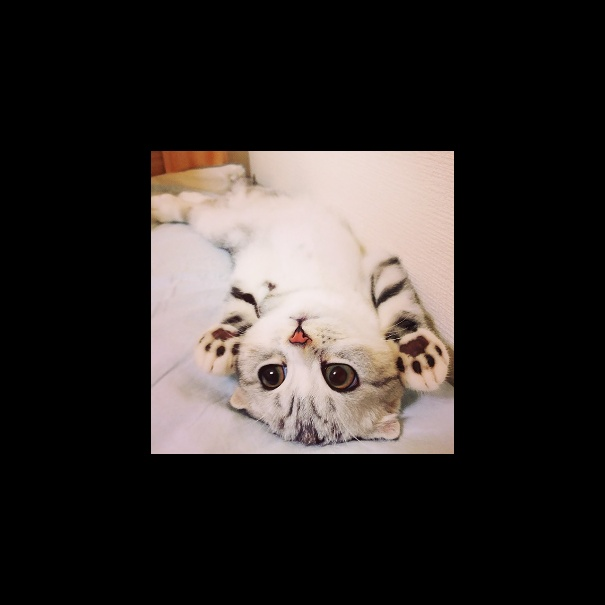
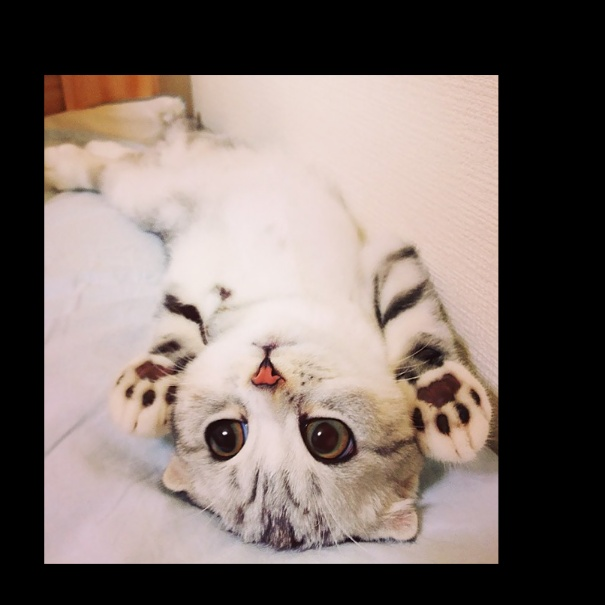
update

diff --git a/index.html b/index.html
@@ -2145,7 +2145,128 @@ A huge list of many types of data augmentations techniques used for deep learnin
 
 <h2>Spatial-level transforms</h2>
 
-<h3>Arithmetic</h3>
+<h3>Crop</h3>
+<ul class="augmentations">
+    <!----------------------------------------------------------------------------------------------------------------->
+    <!-- Crop -->
+    <!----------------------------------------------------------------------------------------------------------------->
+    <li class="item_list">
+        <button onclick="show('aug_crop')">Crop</button>
+        <div id="aug_crop" style="display: none;">
+            Crop region from image.
+            Source: <a target="_blank" 
+                       href="https://albumentations.ai/docs/api_reference/augmentations/transforms/#albumentations.augmentations.transforms.Crop">Albumentations</a><br>
+            <figure>
+                <img src="images/kitty.jpg"> 
+                <figcaption>Original</figcaption>
+            </figure>
+            <figure>
+                <img src="images/kitty_crop.jpg">
+                <figcaption>Augmentation</figcaption>
+            </figure>  
+        </div>
+    </li>
+    <!----------------------------------------------------------------------------------------------------------------->
+    <!-- Center Crop -->
+    <!----------------------------------------------------------------------------------------------------------------->
+    <li class="item_list">
+        <button onclick="show('aug_center_crop')">Center Crop</button>
+        <div id="aug_center_crop" style="display: none;">
+            Crop the central part of the input.
+            Source: <a target="_blank" 
+                       href="https://albumentations.ai/docs/api_reference/augmentations/transforms/#albumentations.augmentations.transforms.CenterCrop">Albumentations</a><br>
+            <figure>
+                <img src="images/kitty.jpg"> 
+                <figcaption>Original</figcaption>
+            </figure>
+            <figure>
+                <img src="images/kitty_center_crop.jpg">
+                <figcaption>Augmentation</figcaption>
+            </figure>  
+        </div>
+    </li>
+    <!----------------------------------------------------------------------------------------------------------------->
+    <!-- Random Crop -->
+    <!----------------------------------------------------------------------------------------------------------------->
+    <li class="item_list">
+        <button onclick="show('aug_random_crop')">Random Crop</button>
+        <div id="aug_random_crop" style="display: none;">
+            Crop a random part of the input.
+            Source: <a target="_blank" 
+                       href="https://albumentations.ai/docs/api_reference/augmentations/transforms/#albumentations.augmentations.transforms.RandomCrop">Albumentations</a><br>
+            <figure>
+                <img src="images/kitty.jpg"> 
+                <figcaption>Original</figcaption>
+            </figure> 
+            <figure>
+                <img src="images/kitty_random_crop.jpg">
+                <figcaption>Augmentation</figcaption>
+            </figure> 
+        </div>
+    </li>
+    <!----------------------------------------------------------------------------------------------------------------->
+    <!-- Crop and Pad -->
+    <!----------------------------------------------------------------------------------------------------------------->
+    <li class="item_list">
+        <button onclick="show('aug_crop_and_pad')">Crop And Pad</button>
+        <div id="aug_crop_and_pad" style="display: none;">
+            Crop/pad images by pixel amounts or fractions of image sizes.
+            Source: <a target="_blank" 
+                       href="https://imgaug.readthedocs.io/en/latest/source/overview/size.html#cropandpad">Imgaug</a><br>
+            <figure>
+                <img src="images/kitty.jpg"> 
+                <figcaption>Original</figcaption>
+            </figure> 
+            <figure>
+                <img src="images/kitty_crop_and_pad.jpg">
+                <figcaption>Augmentation</figcaption>
+            </figure> 
+        </div>
+    </li>
+    <!----------------------------------------------------------------------------------------------------------------->
+    <!-- Random Resized Crop -->
+    <!----------------------------------------------------------------------------------------------------------------->
+    <li class="item_list">
+        <button onclick="show('aug_random_resized_crop')">Random Resized Crop</button>
+        <div id="aug_random_resized_crop" style="display: none;">
+            Torchvision's variant of crop a random part of the input and rescale it to some size.
+            Source: <a target="_blank" 
+                       href="https://albumentations.ai/docs/api_reference/augmentations/transforms/#albumentations.augmentations.transforms.RandomResizedCrop">Albumentations</a><br>
+            <figure>
+                <img src="images/kitty.jpg"> 
+                <figcaption>Original</figcaption>
+            </figure> 
+            <figure>
+                <img src="images/kitty_random_resized_crop.jpg">
+                <figcaption>Augmentation</figcaption>
+            </figure> 
+        </div>
+    </li>
+    <!----------------------------------------------------------------------------------------------------------------->
+    <!-- Random Sized Crop -->
+    <!----------------------------------------------------------------------------------------------------------------->
+    <li class="item_list">
+        <button onclick="show('aug_random_sized_crop')">Random Sized Crop</button>
+        <div id="aug_random_sized_crop" style="display: none;">
+            Crop a random part of the input and rescale it to some size.
+            Source: <a target="_blank" 
+                       href="https://albumentations.ai/docs/api_reference/augmentations/transforms/#albumentations.augmentations.transforms.RandomSizedCrop">Albumentations</a><br>
+            <figure>
+                <img src="images/kitty.jpg"> 
+                <figcaption>Original</figcaption>
+            </figure> 
+            <figure>
+                <img src="images/kitty_random_sized_crop.jpg">
+                <figcaption>Augmentation</figcaption>
+            </figure> 
+        </div>
+    </li>
+    <!----------------------------------------------------------------------------------------------------------------->
+</ul>
+
+<!----------------------------------------------------------------------------------------------------------------->
+
+<h3>Flip</h3>
 <ul class="augmentations">
     <!----------------------------------------------------------------------------------------------------------------->
     <!-- Flip -->
@@ -2248,36 +2369,7 @@ A huge list of many types of data augmentations techniques used for deep learnin
 <!--------------------------------------------------------------------------------------------------------------------->
 
 <ul class="augmentations">
-    <li class="item_list">
-        <button onclick="show('aug34')">CenterCrop</button>
-        <div id="aug34" style="display: none;">
-            Crop the central part of the input.
-            Source: <a target="_blank" href="https://albumentations.ai/docs/api_reference/augmentations/transforms/#albumentations.augmentations.transforms.CenterCrop">Albumentations</a><br>
-            <figure>
-                <img src="images/kitty.jpg"> 
-                <figcaption>Original</figcaption>
-            </figure>
-            <figure>
-                <img src="images/kitty_center_crop.jpg">
-                <figcaption>Augmentation</figcaption>
-            </figure>  
-        </div>
-    </li>
-    <li class="item_list">
-        <button onclick="show('aug35')">Crop</button>
-        <div id="aug35" style="display: none;">
-            Crop region from image.
-            Source: <a target="_blank" href="https://albumentations.ai/docs/api_reference/augmentations/transforms/#albumentations.augmentations.transforms.Crop">Albumentations</a><br>
-            <figure>
-                <img src="images/kitty.jpg"> 
-                <figcaption>Original</figcaption>
-            </figure>
-            <figure>
-                <img src="images/kitty_crop.jpg">
-                <figcaption>Augmentation</figcaption>
-            </figure>  
-        </div>
-    </li>
+ 
     <li class="item_list">
         <button onclick="show('aug36')">ElasticTransform</button>
         <div id="aug36" style="display: none;">
@@ -2338,20 +2430,7 @@ A huge list of many types of data augmentations techniques used for deep learnin
             </figure> 
         </div>
     </li>
-    <li class="item_list">
-        <button onclick="show('aug42')">IAACropAndPad</button>
-        <div id="aug42" style="display: none;">
-            Source: <a target="_blank" href="https://github.com/albumentations-team/albumentations">Albumentations</a><br>
-            <figure>
-                <img src="images/kitty.jpg"> 
-                <figcaption>Original</figcaption>
-            </figure> 
-            <figure>
-                <img src="images/kitty_crop_and_pad.jpg">
-                <figcaption>Augmentation</figcaption>
-            </figure> 
-        </div>
-    </li>
+
     <li class="item_list">
         <button onclick="show('aug43')">IAAPiecewiseAffine</button>
         <div id="aug43" style="display: none;">
@@ -2396,21 +2475,7 @@ A huge list of many types of data augmentations techniques used for deep learnin
             </figure> 
         </div>
     </li>
-    <li class="item_list">
-        <button onclick="show('aug46')">RandomCrop</button>
-        <div id="aug46" style="display: none;">
-            Crop a random part of the input.
-            Source: <a target="_blank" href="https://albumentations.ai/docs/api_reference/augmentations/transforms/#albumentations.augmentations.transforms.RandomCrop">Albumentations</a><br>
-            <figure>
-                <img src="images/kitty.jpg"> 
-                <figcaption>Original</figcaption>
-            </figure> 
-            <figure>
-                <img src="images/kitty_random_crop.jpg">
-                <figcaption>Augmentation</figcaption>
-            </figure> 
-        </div>
-    </li>
+
     <li class="item_list">
         <button onclick="show('aug47')">RandomGridShuffle</button>
         <div id="aug47" style="display: none;">
@@ -2426,21 +2491,7 @@ A huge list of many types of data augmentations techniques used for deep learnin
             </figure> 
         </div>
     </li>
-    <li class="item_list">
-        <button onclick="show('aug48')">RandomResizedCrop</button>
-        <div id="aug48" style="display: none;">
-            Torchvision's variant of crop a random part of the input and rescale it to some size.
-            Source: <a target="_blank" href="https://albumentations.ai/docs/api_reference/augmentations/transforms/#albumentations.augmentations.transforms.RandomResizedCrop">Albumentations</a><br>
-            <figure>
-                <img src="images/kitty.jpg"> 
-                <figcaption>Original</figcaption>
-            </figure> 
-            <figure>
-                <img src="images/kitty_random_resized_crop.jpg">
-                <figcaption>Augmentation</figcaption>
-            </figure> 
-        </div>
-    </li>
+
     <li class="item_list">
         <button onclick="show('aug49')">RandomRotate90</button>
         <div id="aug49" style="display: none;">
@@ -2471,21 +2522,7 @@ A huge list of many types of data augmentations techniques used for deep learnin
             </figure> 
         </div>
     </li>
-    <li class="item_list">
-        <button onclick="show('aug50')">RandomSizedCrop</button>
-        <div id="aug50" style="display: none;">
-            Crop a random part of the input and rescale it to some size.
-            Source: <a target="_blank" href="https://albumentations.ai/docs/api_reference/augmentations/transforms/#albumentations.augmentations.transforms.RandomSizedCrop">Albumentations</a><br>
-            <figure>
-                <img src="images/kitty.jpg"> 
-                <figcaption>Original</figcaption>
-            </figure> 
-            <figure>
-                <img src="images/kitty_random_sized_crop.jpg">
-                <figcaption>Augmentation</figcaption>
-            </figure> 
-        </div>
-    </li>
+
     <li class="item_list">
         <button onclick="show('aug52')">Rotate</button>
         <div id="aug52" style="display: none;">

diff --git a/images/augmentation.py b/images/augmentation.py
@@ -494,7 +494,36 @@ if __name__ == '__main__':
 
     # Spatial Level Transforms
 
+    # Crop
+
+    elif augmentation == 'crop':
+        transform = Crop(always_apply=True, x_max=400, y_max=400)
+        transformed_image = transform(image=image)['image']
+
+    elif augmentation == 'center_crop':
+        transform = CenterCrop(always_apply=True, width=400, height=400)
+        transformed_image = transform(image=image)['image']
+
+    elif augmentation == 'random_crop':
+        transform = RandomCrop(always_apply=True, width=200, height=200)
+        transformed_image = transform(image=image)['image']
+
+    elif augmentation == 'crop_and_pad':
+        transform = iaa.CropAndPad(percent=(-0.25, 0.25))
+        transformed_image = transform(image=image)
+
+    elif augmentation == 'random_resized_crop':
+        transform = RandomResizedCrop(always_apply=True, width=100, height=100)
+        transformed_image = transform(image=image)['image']
+
+    elif augmentation == 'random_sized_crop':
+        transform = RandomSizedCrop(always_apply=True, height=500, width=500, 
+                                                      min_max_height=[200, 200])
+        transformed_image = transform(image=image)['image']
+
+    
     # Flip
+
     elif augmentation == 'flip':
         transform = Flip(always_apply=True)
         transformed_image = transform(image=image)['image']
@@ -534,18 +563,8 @@ if __name__ == '__main__':
         transform = ToFloat(always_apply=True)
         transformed_image = transform(image=image)['image']
 
-    elif augmentation == 'center_crop':
-        transform = CenterCrop(always_apply=True, width=400, height=400)
-        transformed_image = transform(image=image)['image']
+   
     
-    elif augmentation == 'crop':
-        transform = Crop(always_apply=True, x_max=400, y_max=400)
-        transformed_image = transform(image=image)['image']
-
-    elif augmentation == 'crop_non_empty_mask':
-        transform = CropNonEmptyMaskIfExists(always_apply=True, width=400, 
-                                                                height=400)
-        transformed_image = transform(image=image)['image']
 
     elif augmentation == 'elastic_transform':
         transform = ElasticTransform(always_apply=True, alpha=10)
@@ -567,9 +586,7 @@ if __name__ == '__main__':
         transform = IAAAffine(always_apply=True, p=1.0, rotate=180, shear=50)
         transformed_image = transform(image=image)['image']
 
-    elif augmentation == 'crop_and_pad':
-        transform = IAACropAndPad(always_apply=True, percent=0.5)
-        transformed_image = transform(image=image)['image']
+   
     
     elif augmentation == 'longest_max_size':
         transform = LongestMaxSize(always_apply=True)
@@ -579,17 +596,12 @@ if __name__ == '__main__':
         transform = OpticalDistortion(always_apply=True, distort_limit=0.5)
         transformed_image = transform(image=image)['image']
     
-    elif augmentation == 'random_crop':
-        transform = RandomCrop(always_apply=True, width=200, height=200)
-        transformed_image = transform(image=image)['image']
+    
 
     elif augmentation == 'random_grid_shuffle':
         transform = RandomGridShuffle(always_apply=True, grid=(5, 5))
         transformed_image = transform(image=image)['image']
 
-    elif augmentation == 'random_resized_crop':
-        transform = RandomResizedCrop(always_apply=True, width=100, height=100)
-        transformed_image = transform(image=image)['image']
 
     elif augmentation == 'random_rotate90':
         transform = RandomRotate90(always_apply=True)
@@ -597,11 +609,6 @@ if __name__ == '__main__':
 
     elif augmentation == 'random_scale':
         transform = RandomScale(always_apply=True)
-        transformed_image = transform(image=image)['image']
-
-    elif augmentation == 'random_sized_crop':
-        transform = RandomSizedCrop(always_apply=True, height=500, width=500, 
-                                                      min_max_height=[200, 200])
         transformed_image = transform(image=image)['image']
 
     elif augmentation == 'resize':
